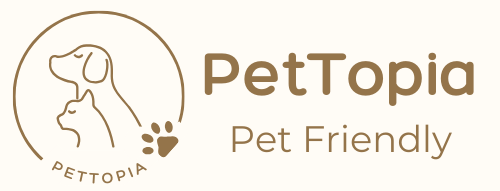
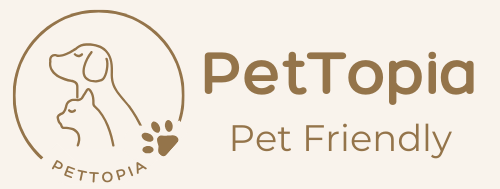
footer顏色調整

diff --git a/src/components/Footer.vue b/src/components/Footer.vue
@@ -1,5 +1,5 @@
 <template>
-    <footer class="bg-[#fffcf6] text-gray-700 border-t border-gray-300 text-center py-8">
+    <footer class="bg-[#f9f3ec] text-gray-700 border-t border-gray-300 text-center py-8">
         <div class="max-w-7xl mx-auto px-6">
             <br>
 
@@ -85,7 +85,7 @@
 
 <style scoped>
 footer {
-    background-color: #fffcf6;
+    background-color: #f9f3ec;
     color: #4b4b4b;
 }
 
